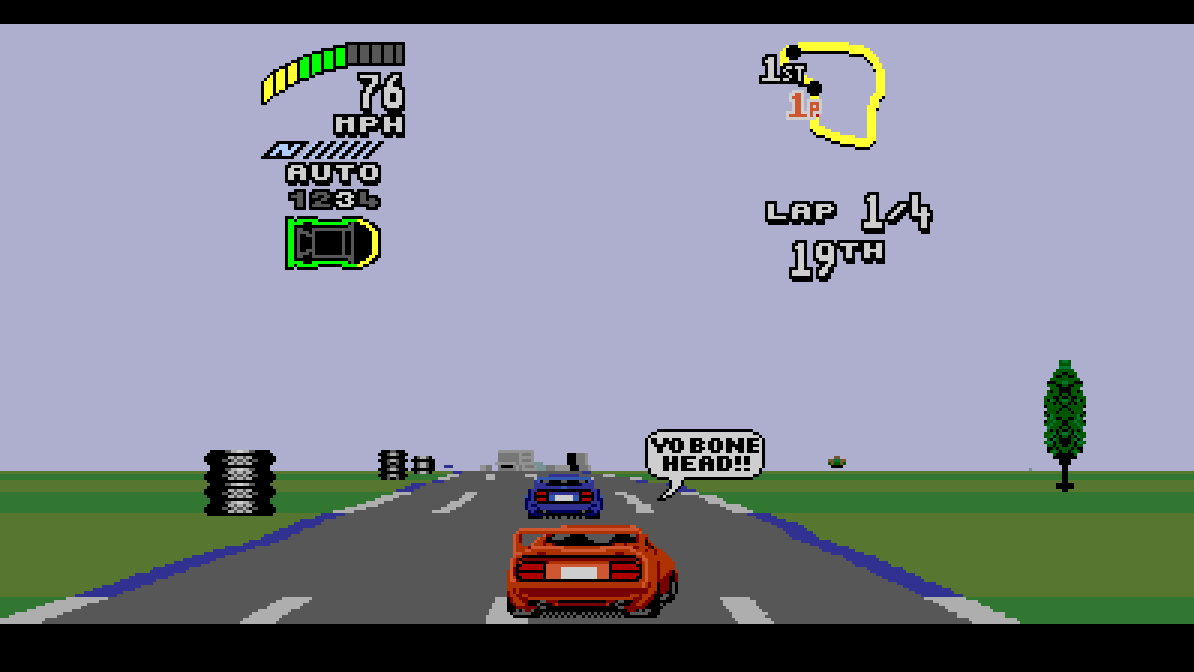
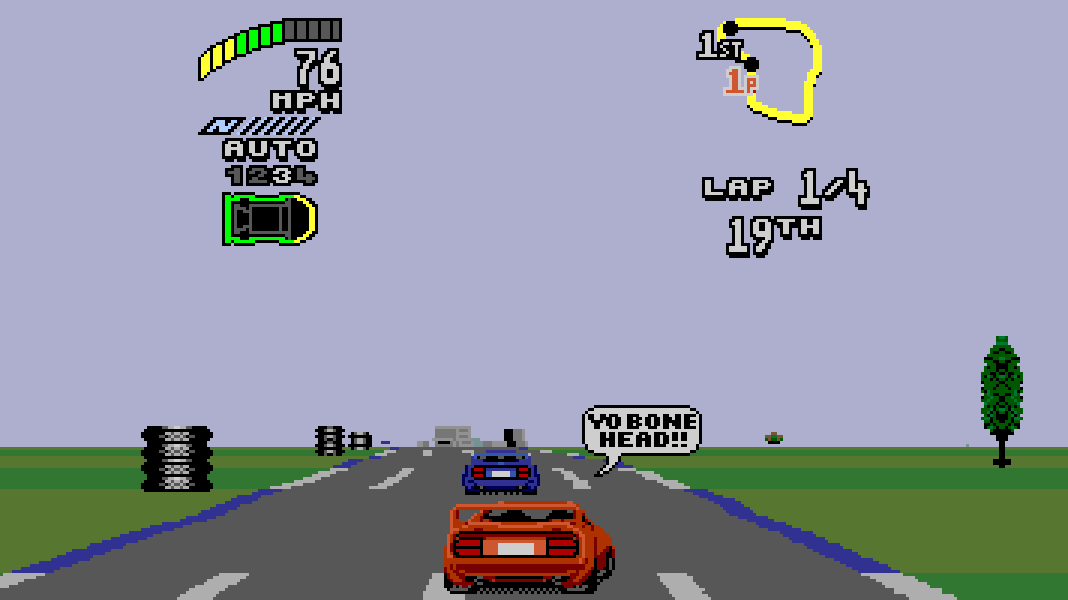
README: cropped screenshots, a different track per image, tracks gallery
Every in-game screenshot now has Hide overscan's crop (no black bands): the
hero is a race start in Egypt, the widescreen comparison stays on the baseline
route, and a new gallery shows France, Australasia at night and Canada in snow.

diff --git a/README.md b/README.md
@@ -9,7 +9,7 @@ included, and generated C is not part of the source repository.
 
 <p align="center">
   <a href="docs/images/title.png"><img src="docs/images/title.png" width="32%" alt="Top Gear 2 title screen"></a>
-  <a href="docs/images/race-16x9-edges.png"><img src="docs/images/race-16x9-edges.png" width="35%" alt="A race in 16:9 with the HUD at the screen edges"></a>
+  <a href="docs/images/race-egypt.png"><img src="docs/images/race-egypt.png" width="35%" alt="The start of a race in Egypt in 16:9"></a>
   <a href="docs/images/sound-both.png"><img src="docs/images/sound-both.png" width="32%" alt="The game's Race Sound menu showing the new BOTH choice"></a>
 </p>
 
@@ -50,15 +50,16 @@ state and open items.
 
 ### Widescreen
 
-The same moment of a race in Original (8:7 with square pixels, the
-Genesis's 256 × 224 race frame), 16:9 and 21:9. The wider views reveal
-the tyre stack on the left and the tree on the right, which the original
-frame cuts off.
+The same moment of a race in Original (the Genesis's 256-pixel-wide race
+frame), 16:9 and 21:9. The wider views reveal the tyre stack on the left and
+the tree on the right, which the original frame cuts off. All three have
+*Hide overscan* on, so the empty black bands above and below the race are
+cropped.
 
 <p align="center">
-  <a href="docs/images/aspect-original.png"><img src="docs/images/aspect-original.png" width="40%" alt="Original 8:7 view of the race"></a>
+  <a href="docs/images/aspect-original.png"><img src="docs/images/aspect-original.png" width="40%" alt="Original view of the race"></a>
   <br>
-  <em>Original (8:7)</em>
+  <em>Original</em>
 </p>
 
 <p align="center">
@@ -75,6 +76,18 @@ frame cuts off.
 
 Menus, the shop and the results screens are shown in their original width,
 centred. Extending every non-race screen that has scenery is planned.
+
+### Tracks
+
+The game has 64 races in 16 countries, with night, snow, rain and fog.
+
+<p align="center">
+  <a href="docs/images/track-france.png"><img src="docs/images/track-france.png" width="32%" alt="A sunny race in France in 16:9"></a>
+  <a href="docs/images/track-night.png"><img src="docs/images/track-night.png" width="32%" alt="A night race in Australasia in 16:9"></a>
+  <a href="docs/images/track-snow.png"><img src="docs/images/track-snow.png" width="32%" alt="A snow race in Canada in 16:9"></a>
+  <br>
+  <em>France, Australasia at night, and Canada in the snow.</em>
+</p>
 
 ## ROM requirements
 
